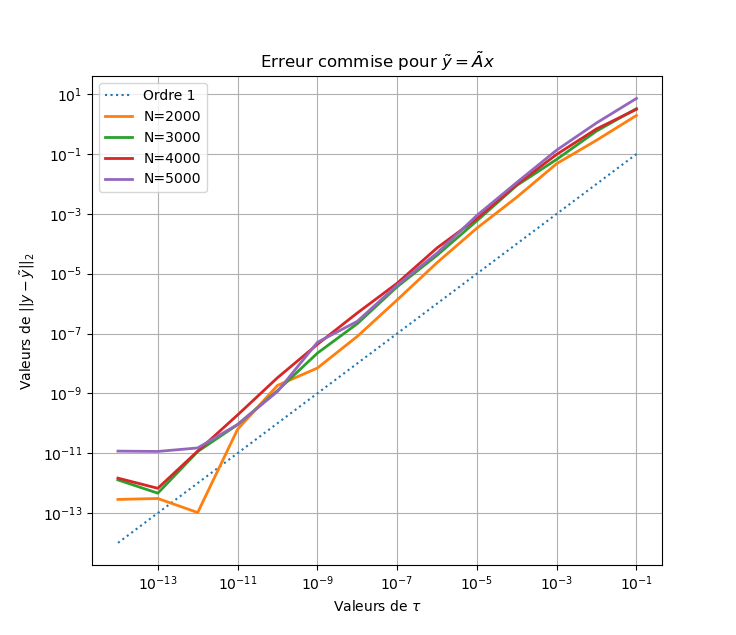
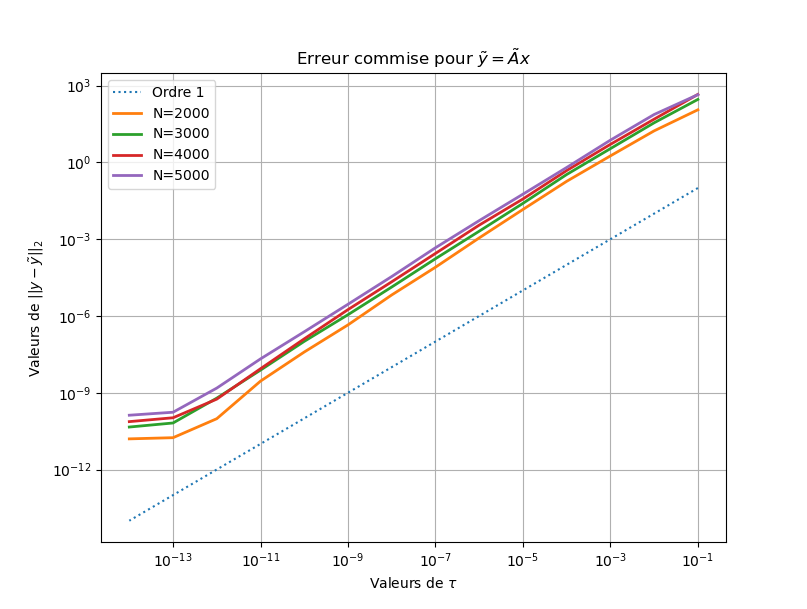
Krylov : dot not working

diff --git a/Test/Krylov.py b/Test/Krylov.py
@@ -42,9 +42,9 @@ if __name__ == "__main__":
     # Initialisation des paramètres du problème
     start = time.time()
     #N_vec = [100, 150, 200, 250, 300, 350, 400]
-    N_vec = [100 * i for i in range(1, 9)]
+    #N_vec = [100 * i for i in range(1, 9)]
     #N_vec = [1000, 2000, 3000, 4000, 5000]
-    #N_vec = [10, 25, 50, 75, 100]
+    N_vec = [10, 25, 50, 75, 100]
     #N_vec = [10, 20]
     X = []
     Y_cg = []
@@ -62,7 +62,7 @@ if __name__ == "__main__":
         #print(A)
         A_h2 = mcbh(problem, tau=tau, iters=1, verbose=0)  #Matrice H2
         
-        mv = problem.dot
+        mv = A_h2.dot
 
         A_h2 = LinearOperator((N, N), matvec=mv)
 
@@ -70,6 +70,9 @@ if __name__ == "__main__":
         print('Calcul du x_exact...')
         x_ref = np.linalg.solve(A, b)
 
+
+        y_ref = A.dot(x)
+        y_h2 = A_h2.matvec(x)
         
         
         print('Calcul de x_gmres...')
@@ -80,25 +83,31 @@ if __name__ == "__main__":
         #err_cg = np.linalg.norm(x1 - x_cg)
         print("Calcul de l'erreur")
         err_gmres = np.linalg.norm(x_ref - x_gmres)
-        #err_y = np.linalg.norm(y_ref - y_h2)
+        err_y = np.linalg.norm(y_ref - y_h2)
         #print(f"\nNorme x2 : {np.linalg.norm(x2)}")
         #print(f"CG :\t{exitCode_cg==0}\nGMRES :\t{exitCode_gmres==0} ")
         print(f"GMRES :\t{exitCode_gmres==0} ")
         X.append(N)
         #Y_cg.append(err_cg)
+        Y_cg.append(err_y)
         Y_gmres.append(err_gmres)
+
+    print(f"Temps d'exécution : {time.time() - start}")
 
     plt.title(r"Erreur commise pour $\tilde{A} \tilde{x}= b$")
     plt.xlabel("Nombre d'inconnu $N$")
     plt.ylabel(r"Valeur de $\|\|x - \tilde{x} \|\|_2$")
     #plt.loglog(X, Y_cg, c='b', linewidth=2, label='CG')
     plt.loglog(X, Y_gmres, c='r', linewidth=2, label='GMRES')
+    plt.loglog(X, Y_cg, c='b', linewidth=2, label='y = Ax')
     plt.loglog(X, X, ls=':', label='Ordre 1')
     plt.grid()
     plt.legend()
     plt.show()
 
+   
+
     
-    print(f"Temps d'exécution : {time.time() - start}")
+    
 
         

diff --git a/Test/Err_ Mat_Vec.py b/Test/Err_ Mat_Vec.py
@@ -26,8 +26,8 @@ if __name__ == "__main__":
         
         A_h2 = mcbh(problem, tau=1e-4, iters=0, verbose=0)
 
-        X = np.zeros(N)
-        X[0] = 1
+        X = np.random.randn(N)
+        
         X_err = [(1e-1 ** i) for i in range(1,15)]
         Y_err_dot = []
         Y_err_matvec = []
@@ -37,7 +37,7 @@ if __name__ == "__main__":
             A_h2 = mcbh(problem, tau=t, iters=1, verbose=0)
             A_h2.svdcompress(t)
             res_h2_dot = A_h2.dot(X)
-            res_h2_matvec = A_h2.matvec(X)
+            res_h2_matvec = A_h2.dot(X)
             #print(np.linalg.norm(res ), np.linalg.norm(res_h2), "\n")
             err_dot = np.linalg.norm(res - res_h2_dot)
             err_matvec = np.linalg.norm(res - res_h2_matvec)
